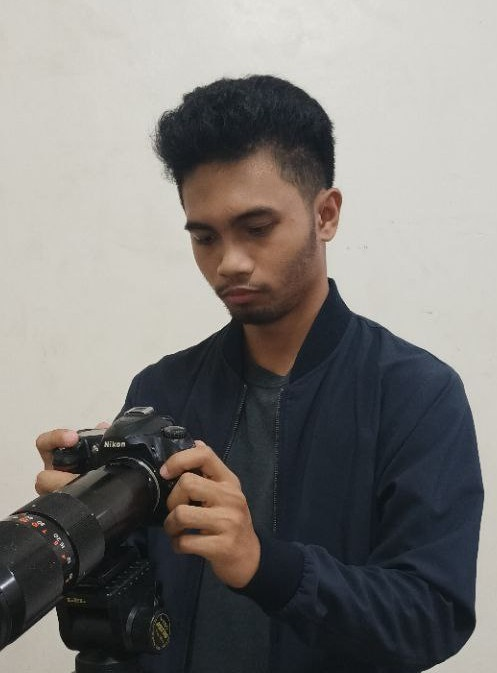
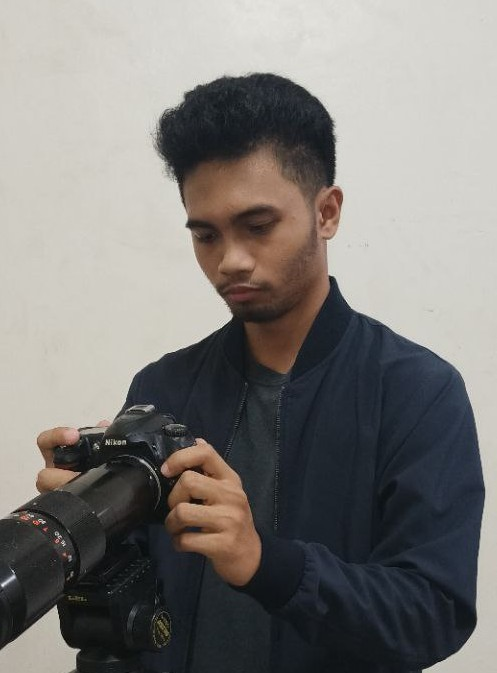
Resized the image, change the position, and finalized the responsive design of the about me page

diff --git a/assets/css/portfoliocss/index.css b/assets/css/portfoliocss/index.css
@@ -15,7 +15,7 @@ header {
 }
 
 #introduction {
-    padding: 35px 100px;
+    padding: 35px 30px;
     display: flex;
     justify-content: space-between;
     align-items: center;
@@ -68,6 +68,14 @@ header {
     border-radius: 0;
 }
 
+#animated-face {
+    flex: 0 0 40%;
+    display: flex;
+    justify-content: center;
+    align-items: center;
+    padding: 0px 80px;
+}
+
 #image-slider {
     flex: 0 0 300px;
     display: flex;
@@ -85,6 +93,24 @@ header {
 }
 
 @media (max-width: 768px) {
+    #introduction {
+        flex-direction: column;
+        align-items: center;
+        gap: 20px;
+    }
+
+    #animated-face {
+        order: -1;
+        flex: 0 0 auto;
+        padding: 0;
+    }
+
+    #animated-image {
+        width: 200px;
+        height: 200px;
+        border-radius: 10%;
+    }
+
     .about {
         max-width: 90%;
         font-size: 1rem;
@@ -100,6 +126,11 @@ header {
 }
 
 @media (max-width: 480px) {
+    #animated-image {
+        width: 150px;
+        height: 150px;
+    }
+
     .about {
         font-size: 0.9rem;
         line-height: 1.6;

diff --git a/index.html b/index.html
@@ -25,9 +25,11 @@
             I am a fast learner and can pick up complex concepts with ease. Additionally, I am proficient in Visual Studio Code, NetBeans, and Android Studio as my IDEs. 
             You can check out my work in my <a href="assets/html/portfolio/frontpage.html">portfolio</a>.</p>
         </div>
-        <div class="image-slider">
-            <img id="animated-image" src="imgassets/portfolio/face/face-1.jpg" alt="Animated Face" />
-        </div>
+        <section id="animated-face">
+            <div class="image-slider">
+                <img id="animated-image" src="imgassets/portfolio/face/face-1.jpg" alt="Animated Face" />
+            </div>
+        </section>
     </section>
 
     <script src="https://cdnjs.cloudflare.com/ajax/libs/animejs/3.2.1/anime.min.js"></script>>
